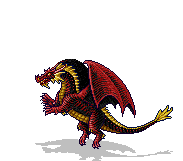
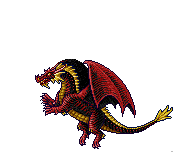
Shadows deleted <bug

Changed region(s): [[0.1913, 0.8385, 0.8197, 1.0], [0.8197, 0.9317, 0.929, 0.9627]]

diff --git a/src/main/java/game/screens/GameScreen.java b/src/main/java/game/screens/GameScreen.java
@@ -5,6 +5,8 @@ import game.MyKeyListener;
 import game.Score;
 import game.log.Logger;
 
+import java.awt.Color;
+import java.awt.Font;
 import java.awt.Graphics;
 import java.awt.Graphics2D;
 import java.awt.RenderingHints;
@@ -72,22 +74,22 @@ public class GameScreen extends JPanel {
      * Level is won by player.
      */
     public void levelWon() {
-        final JLabel label = new JLabel("test");
-        label.setText("Congratulations! Level won!");
-        gameScreen.add(label);
         final JButton nextLevel = new JButton("Next Level");
-        nextLevel.setBounds(300, 50, 140, 50);
+        //Fucked up ouwe deze setBound
+        nextLevel.setBounds(0, 0, 200, 50);
+        nextLevel.setBackground(Color.BLACK);
+        nextLevel.setForeground(Color.WHITE);
+        nextLevel.setOpaque(true);
+        nextLevel.setVisible(true);
         nextLevel.addActionListener(new ActionListener() {
             public void actionPerformed(ActionEvent ae) {
                 game.gameStart();
                 gameScreen.remove(nextLevel);
-                gameScreen.remove(label);
             }
         });
         gameScreen.add(nextLevel);
         gameScreen.validate();
         validate();
-        reload();
     }
 
     /**
@@ -113,6 +115,7 @@ public class GameScreen extends JPanel {
         gameScreen = new GameScreen();
         frame.addKeyListener(new MyKeyListener(gameInput));
         Logger.log("Added key listener", 9, 4);
+        frame.getContentPane().setBackground(Color.BLACK);
         frame.add(gameScreen);
         frame.setSize(ScreenSettings.getScreenWidth(),
                 ScreenSettings.getScreenHeight());

diff --git a/src/main/java/game/screens/Painter.java b/src/main/java/game/screens/Painter.java
@@ -107,12 +107,14 @@ public class Painter {
             imageLocation = imageLocation.replace("target/classes/", "src/");
 
             Image img1 = Toolkit.getDefaultToolkit().getImage("src/main/Images/backgroundGameScreen.png");
+            g2d.setColor(Color.BLACK);
+            g2d.setBackground(Color.BLACK);
+            //g2d.fillRect(centerConstant + 1, 0, game.getCurrentLevel().getWidth() - 1,
+            //        game.getCurrentLevel().getHeight() - 1);
             
             g2d.drawImage(img1, 0, 0, null);
             
-            //g2d.setColor(bg);
-            //g2d.fillRect(centerConstant + 1, 51, game.getCurrentLevel().getWidth() - 1,
-            //        game.getCurrentLevel().getHeight() - 1);
+            
             g2d.setColor(Color.BLACK);
         }
     }

diff --git a/src/main/java/game/screens/PauseScreen.java b/src/main/java/game/screens/PauseScreen.java
@@ -3,7 +3,9 @@ package game.screens;
 import game.Game;
 
 import java.awt.Color;
+import java.awt.Dimension;
 import java.awt.Font;
+import java.awt.Toolkit;
 import java.awt.event.ActionEvent;
 import java.awt.event.ActionListener;
 
@@ -37,6 +39,7 @@ public class PauseScreen extends JFrame {
         ScreenBuilder.initScreen(this, "Paused game");
         addResumeButton(game);
         addStopButton(game);
+        this.setLocation(800, 350);
         setSize(ScreenSettings.getPauseWidth() - 1, ScreenSettings.getPauseHeight() - 1);
         setSize(ScreenSettings.getPauseWidth(), ScreenSettings.getPauseHeight());
     }
